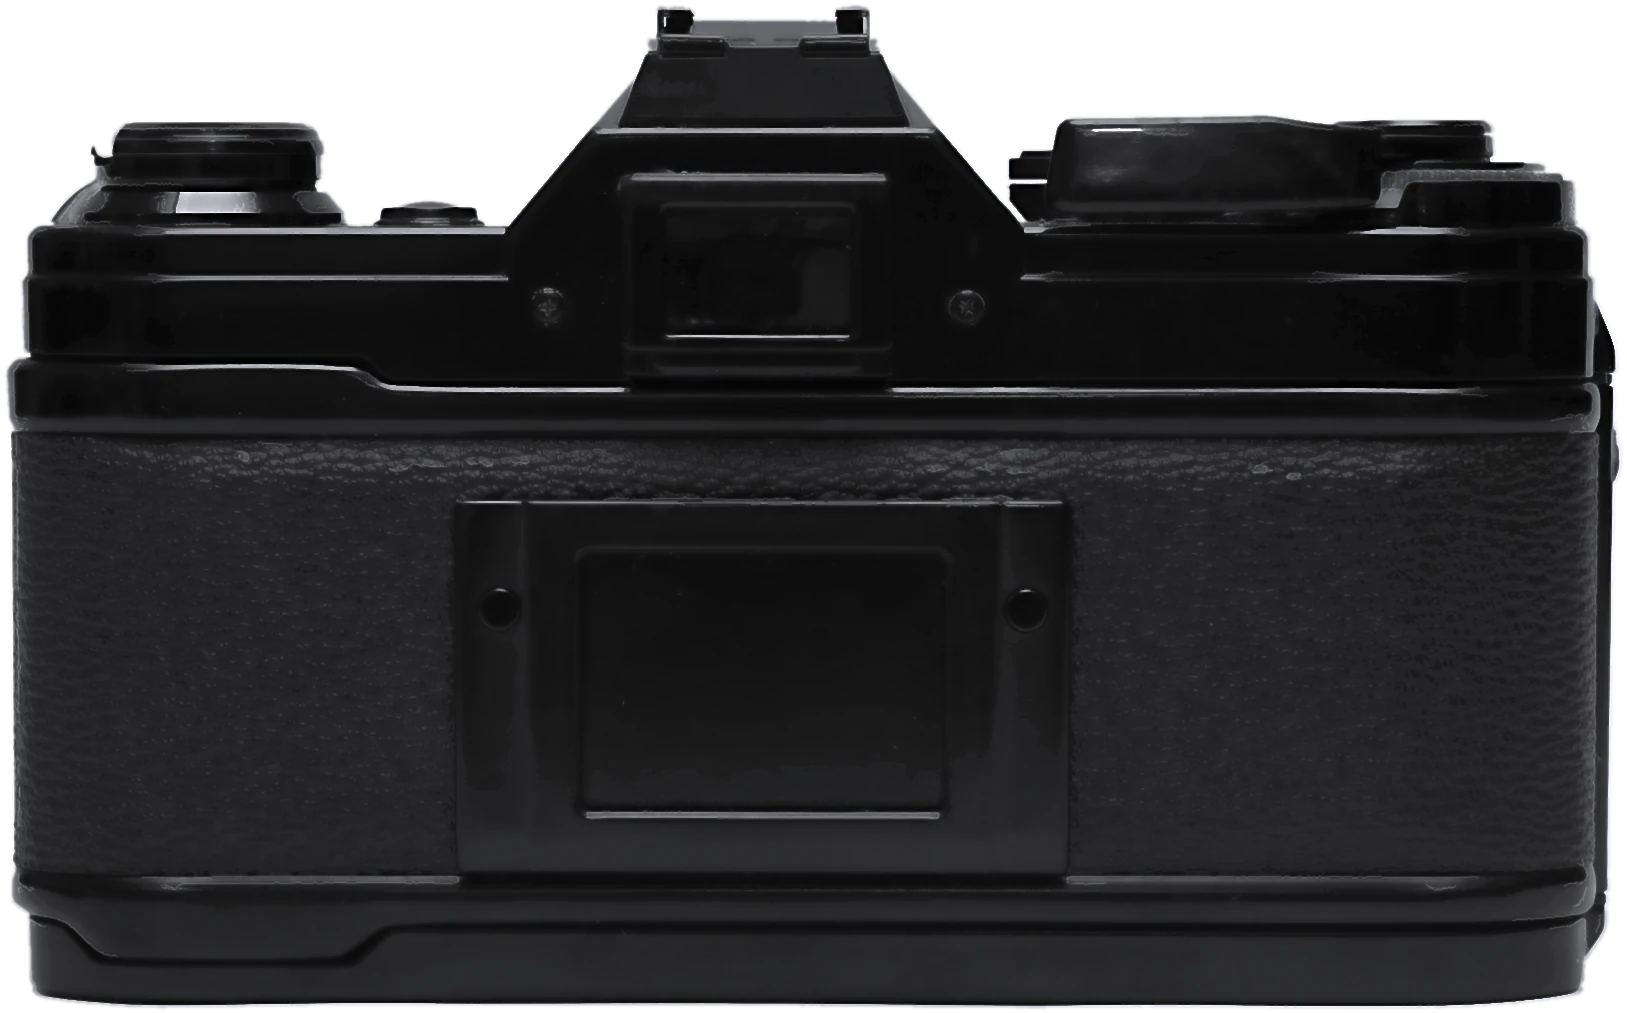
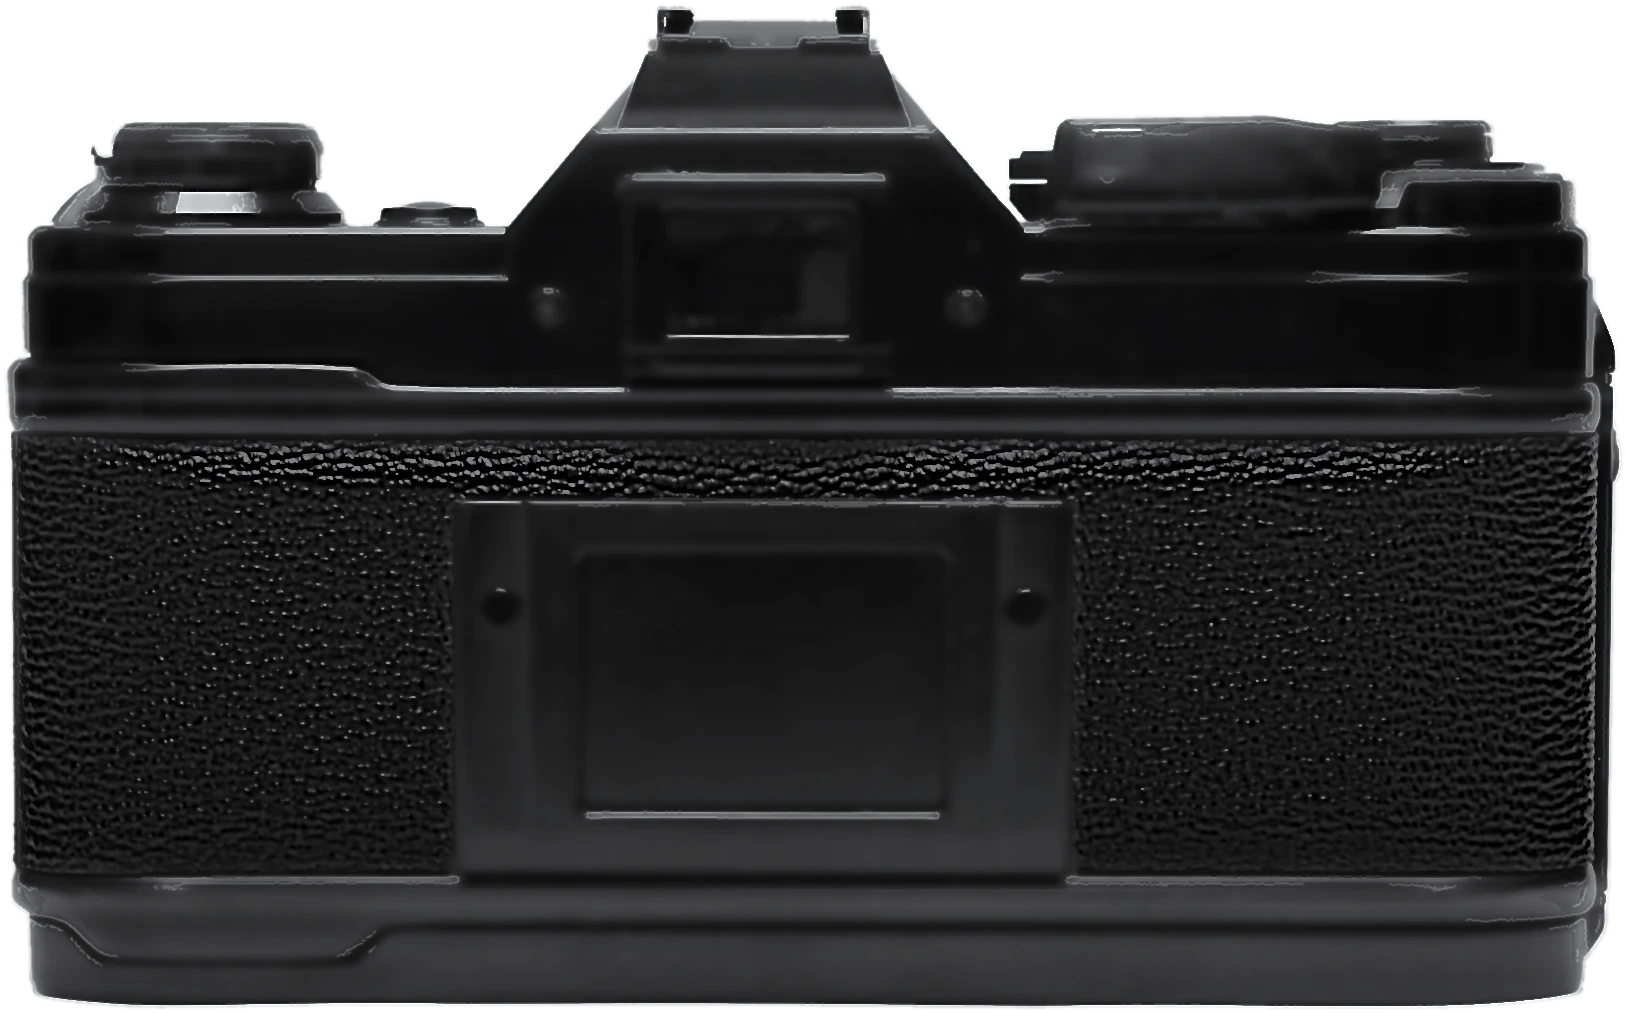
Studio black camera skin, light background
Claude-Session: https://claude.ai/code/session_017zUiLgQnXgubZ1MDcgun79

diff --git a/index.html b/index.html
@@ -16,13 +16,13 @@
   html,body{margin:0;height:100%;overflow:hidden;background:#0b0a09;color:var(--text);font-family:Inter,system-ui,sans-serif;user-select:none;-webkit-user-select:none;touch-action:none}
   button{font-family:inherit;touch-action:none}
   #rig{position:fixed;left:0;top:0;transform-origin:0 0;overflow:hidden;
-    background:radial-gradient(120% 120% at 50% 40%,#3a3632 0%,#1c1a18 55%,#0d0c0b 100%)}
+    background:radial-gradient(120% 120% at 50% 35%,#ffffff 0%,#f1f0ee 45%,#d9d7d3 100%)}
   .screen{position:absolute;inset:0;display:none}
   .screen.on{display:block}
 
   /* ================= camera ================= */
   #wrap{position:absolute;aspect-ratio:1627/1013}
-  #wrap>img.skin{position:absolute;inset:0;width:100%;height:100%;filter:drop-shadow(0 calc(var(--u)*40) calc(var(--u)*50) rgba(0,0,0,.7))}
+  #wrap>img.skin{position:absolute;inset:0;width:100%;height:100%;filter:drop-shadow(0 calc(var(--u)*30) calc(var(--u)*40) rgba(0,0,0,.28))}
   .ov{position:absolute}
   .eng{font:600 calc(var(--u)*20) "IBM Plex Mono",monospace;letter-spacing:.16em;color:#d8d2c8;opacity:.78}
 
@@ -88,7 +88,7 @@
   #modeSw span.on{background:#2e2924;color:#f2ede4}
   #modeSw span.on.d{background:var(--accent);color:#1b0f04}
   #rollBtn img{height:calc(var(--u)*44);border-radius:calc(var(--u)*4)}
-  #flip{position:absolute;right:10px;top:8px;width:34px;height:34px;border-radius:50%;border:1px solid #333;background:rgba(0,0,0,.4);color:#aaa;font-size:16px;cursor:pointer;z-index:5}
+  #flip{position:absolute;right:10px;top:8px;width:34px;height:34px;border-radius:50%;border:1px solid #c9c6c1;background:rgba(255,255,255,.6);color:#555;font-size:16px;cursor:pointer;z-index:5}
 
   /* ================= roll ================= */
   .bar{position:absolute;left:0;right:0;top:0;height:50px;display:flex;align-items:center;gap:8px;padding:0 12px;border-bottom:1px solid var(--line);background:#100e0d;z-index:2}
